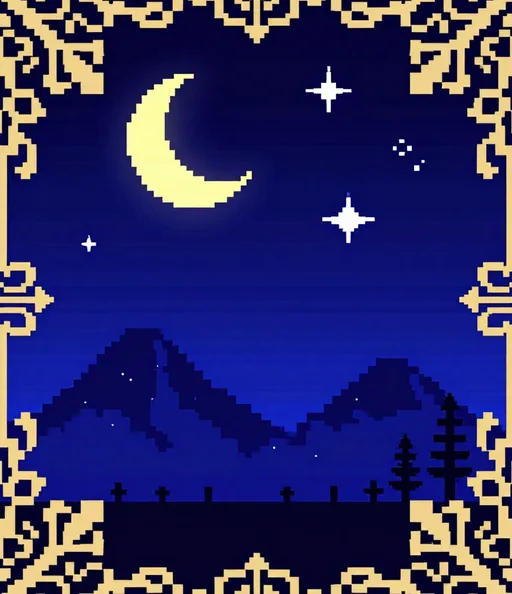
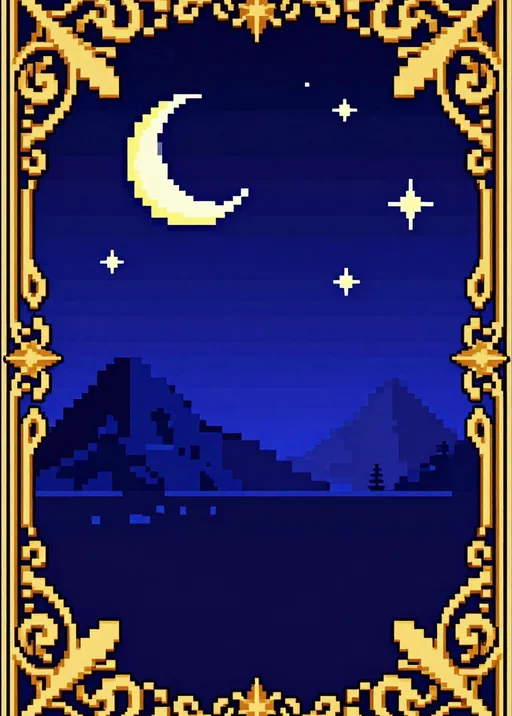
feat: 絵のスリーブの上の帯をすりガラスにして絵を透かす (絵は全面に戻す)。黄金の蝶を切り絵の洋館に

diff --git a/js3d/cardtex.js b/js3d/cardtex.js
@@ -1124,11 +1124,10 @@ export function backTex(variant) {
     if (art) {
       ctx.save(); roundRect(ctx, 0, 0, DW, DH, 30); ctx.clip();
       ctx.fillStyle = P.b || '#000'; ctx.fillRect(0, 0, DW, DH);
-      /* 絵は上の帯 (FACE DOWN と値) の下から敷く。帯に絵を隠させない。はみ出す分は上下を中央で切る */
-      const top = HEAD_H, ah = DH - top;
-      const s = Math.max(DW / art.width, ah / art.height);
-      const sw = DW / s, sh = ah / s;
-      ctx.drawImage(art, (art.width - sw) / 2, (art.height - sh) / 2, sw, sh, 0, top, DW, ah);
+      /* 絵は全面に敷く (比が違えば中央で切る)。上の帯はすりガラスにして絵を透かす */
+      const s = Math.max(DW / art.width, DH / art.height);
+      const sw = DW / s, sh = DH / s;
+      ctx.drawImage(art, (art.width - sw) / 2, (art.height - sh) / 2, sw, sh, 0, 0, DW, DH);
       /* 縁を少し暗くして、カードの形を読みやすく */
       const v = ctx.createRadialGradient(DW / 2, DH / 2, DH * 0.35, DW / 2, DH / 2, DH * 0.72);
       v.addColorStop(0, 'rgba(0,0,0,0)'); v.addColorStop(1, 'rgba(0,0,0,.45)');
@@ -1240,17 +1239,28 @@ export function backTex(variant) {
     }
     /* 裏向きカードの値は 2。表と同じ位置に出して、覆われても読めるようにする */
     const bh = HEAD_H;
-    if (art) {                                     // 絵のスリーブでは帯を透かさず、額の上辺のような無地の帯にする
+    if (art) {
+      /* 絵のスリーブ: 帯の部分だけ絵をぼかして描き直し (すりガラス)、薄く暗くして文字を読めるようにする */
       ctx.save(); roundRect(ctx, 0, 0, DW, DH, 30); ctx.clip();
-      ctx.fillStyle = '#080b15'; ctx.fillRect(0, 0, DW, bh);
+      ctx.beginPath(); ctx.rect(0, 0, DW, bh); ctx.clip();
+      const s = Math.max(DW / art.width, DH / art.height);
+      const sw = DW / s, sh = DH / s;
+      ctx.filter = 'blur(7px) saturate(1.2)';
+      ctx.drawImage(art, (art.width - sw) / 2, (art.height - sh) / 2, sw, sh, -8, -8, DW + 16, DH + 16);
+      ctx.filter = 'none';
+      const fg = ctx.createLinearGradient(0, 0, DW, 0);
+      fg.addColorStop(0, 'rgba(8,11,21,.42)'); fg.addColorStop(0.6, 'rgba(8,11,21,.48)'); fg.addColorStop(1, 'rgba(8,11,21,.6)');
+      ctx.fillStyle = fg; ctx.fillRect(0, 0, DW, bh);
       ctx.restore();
     }
-    const bg = ctx.createLinearGradient(0, 0, DW, 0);
-    bg.addColorStop(0, 'rgba(' + P.strip + ',.34)');
-    bg.addColorStop(0.62, 'rgba(8,11,21,.95)');
-    bg.addColorStop(1, 'rgba(8,11,21,.97)');
-    ctx.fillStyle = bg;
-    ctx.fillRect(0, 0, DW, bh);
+    if (!art) {
+      const bg = ctx.createLinearGradient(0, 0, DW, 0);
+      bg.addColorStop(0, 'rgba(' + P.strip + ',.34)');
+      bg.addColorStop(0.62, 'rgba(8,11,21,.95)');
+      bg.addColorStop(1, 'rgba(8,11,21,.97)');
+      ctx.fillStyle = bg;
+      ctx.fillRect(0, 0, DW, bh);
+    }
     const bsize = BADGE;
     const bbx = DW - bsize - 12, bby = (bh - bsize) / 2;
     ctx.fillStyle = 'rgba(160,190,215,.92)';

diff --git a/three-play.html b/three-play.html
@@ -2928,7 +2928,7 @@
       "./js3d/board.js": "./js3d/board.js?v=68e68199ac",
       "./js3d/card.js": "./js3d/card.js?v=6d8083e5b7",
       "./js3d/cardlist-ov.js": "./js3d/cardlist-ov.js?v=1d673fd0d2",
-      "./js3d/cardtex.js": "./js3d/cardtex.js?v=2ee42e9ca2",
+      "./js3d/cardtex.js": "./js3d/cardtex.js?v=0996724447",
       "./js3d/cardtext.js": "./js3d/cardtext.js?v=4cf5529855",
       "./js3d/cloudsave.js": "./js3d/cloudsave.js?v=b187c8c5a5",
       "./js3d/control.js": "./js3d/control.js?v=1d9dcd7905",
@@ -3030,7 +3030,7 @@
   <link rel="modulepreload" href="js3d/review.js?v=34f174153b">
   <link rel="modulepreload" href="js3d/roomui.js?v=78225c5a6e">
   <link rel="modulepreload" href="js3d/selectui.js?v=208abdaebc">
-  <link rel="modulepreload" href="js3d/cardtex.js?v=2ee42e9ca2">
+  <link rel="modulepreload" href="js3d/cardtex.js?v=0996724447">
   <link rel="modulepreload" href="js3d/fx.js?v=f2bbe73646">
   <link rel="modulepreload" href="js3d/arena.js?v=50f2ba0d13">
   <link rel="modulepreload" href="js3d/audio.js?v=28a4f522ba">

diff --git a/scripts/sleeve_import.py b/scripts/sleeve_import.py
@@ -1,7 +1,7 @@
 """スリーブの絵を取り込む。
    python scripts/sleeve_import.py <名前> <書き出しの URL か、手元の画像のパス> [残す位置 0〜1]
-   まわりの白い余白 (版画の紙の縁など) を切り落とし、カードの裏面の「上の帯 (FACE DOWN と値) より下」
-   (512x594) の比に切って、art/sleeves/<名前>.webp に保存する。
+   まわりの白い余白 (版画の紙の縁など) を切り落とし、カードの裏面 (512x716) の比に切って、
+   art/sleeves/<名前>.webp に保存する。上の帯 (FACE DOWN と値) はすりガラスで絵を透かすので、上の方も見える。
    残す位置: 縦にはみ出す分をどこで切るか。0 = 上を残す、0.5 = 中央 (既定)、1 = 下を残す"""
 import io
 import sys
@@ -11,7 +11,7 @@ from PIL import Image, ImageStat
 
 name, src = sys.argv[1], sys.argv[2]
 anchor = float(sys.argv[3]) if len(sys.argv) > 3 else 0.5
-OUT_W, OUT_H = 512, 594          # cardtex.js の DW x (DH - HEAD_H)
+OUT_W, OUT_H = 512, 716          # cardtex.js の DW x DH
 if Path(src).is_file():
     im = Image.open(src).convert('RGB')
 else:
